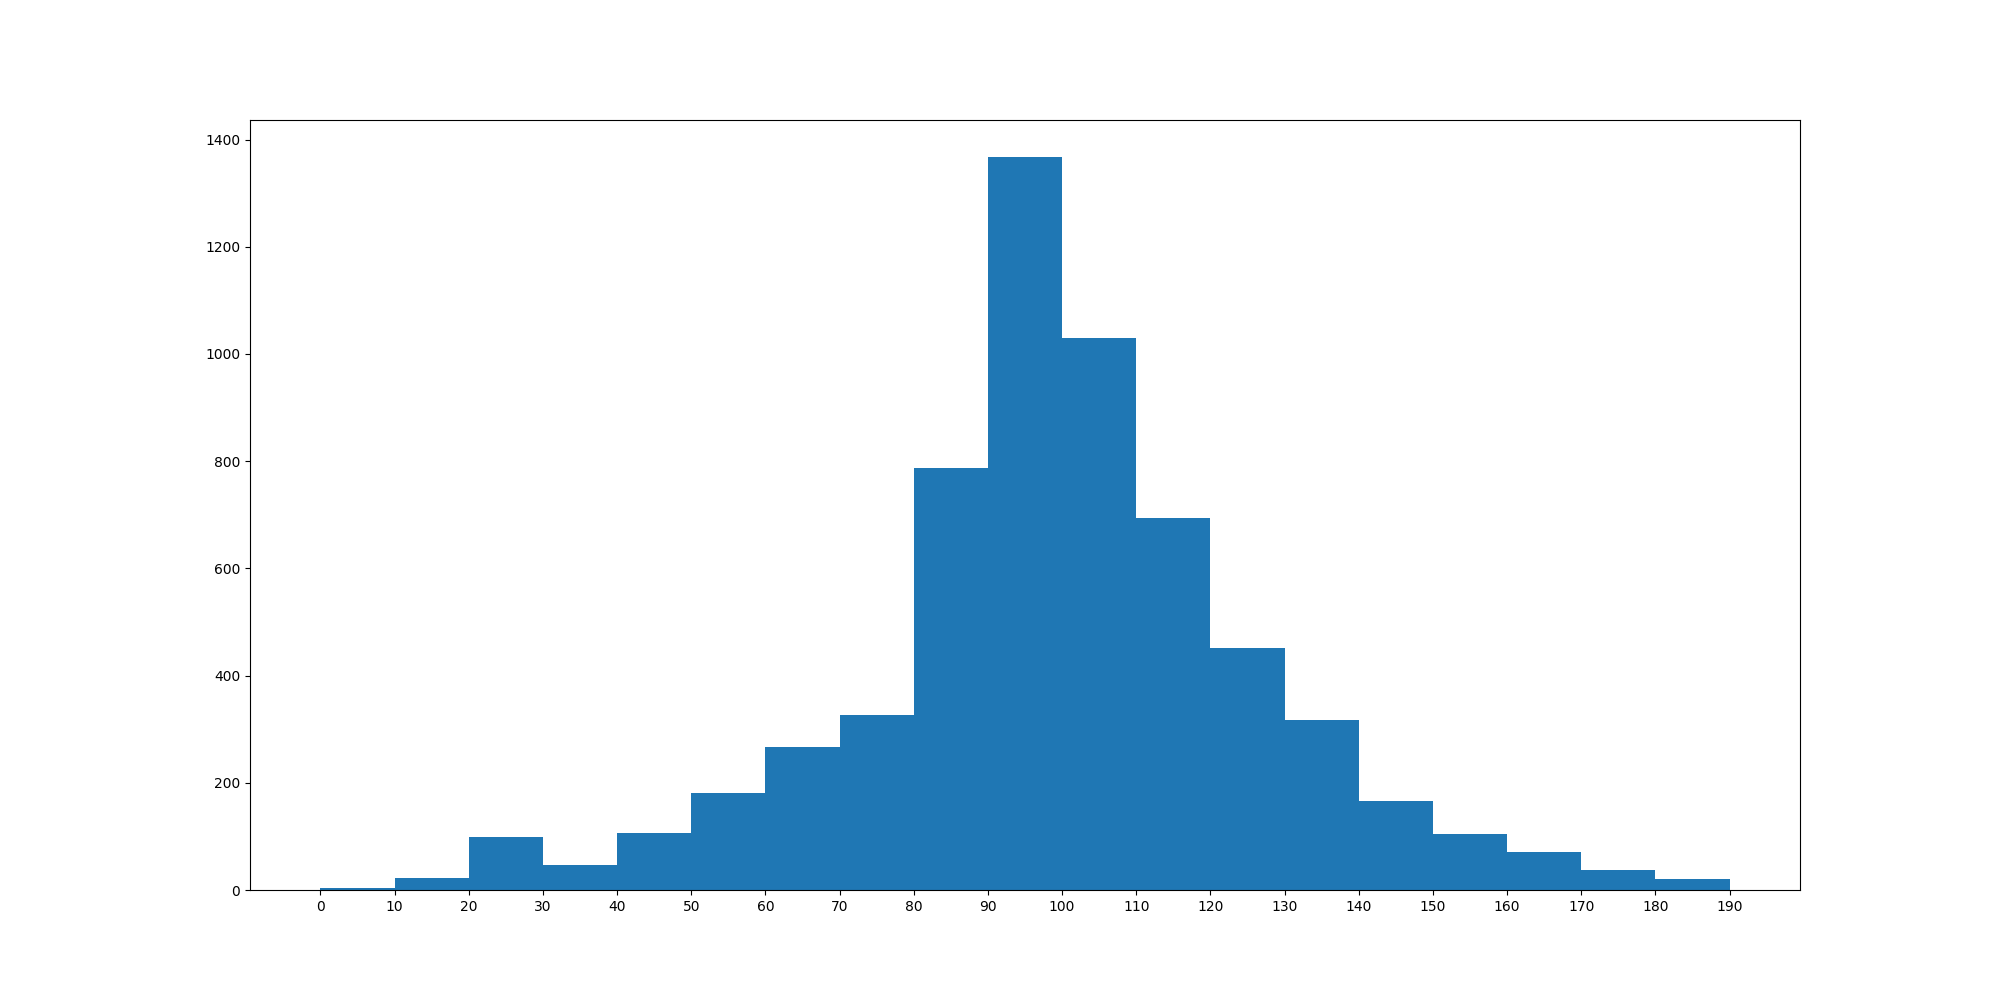
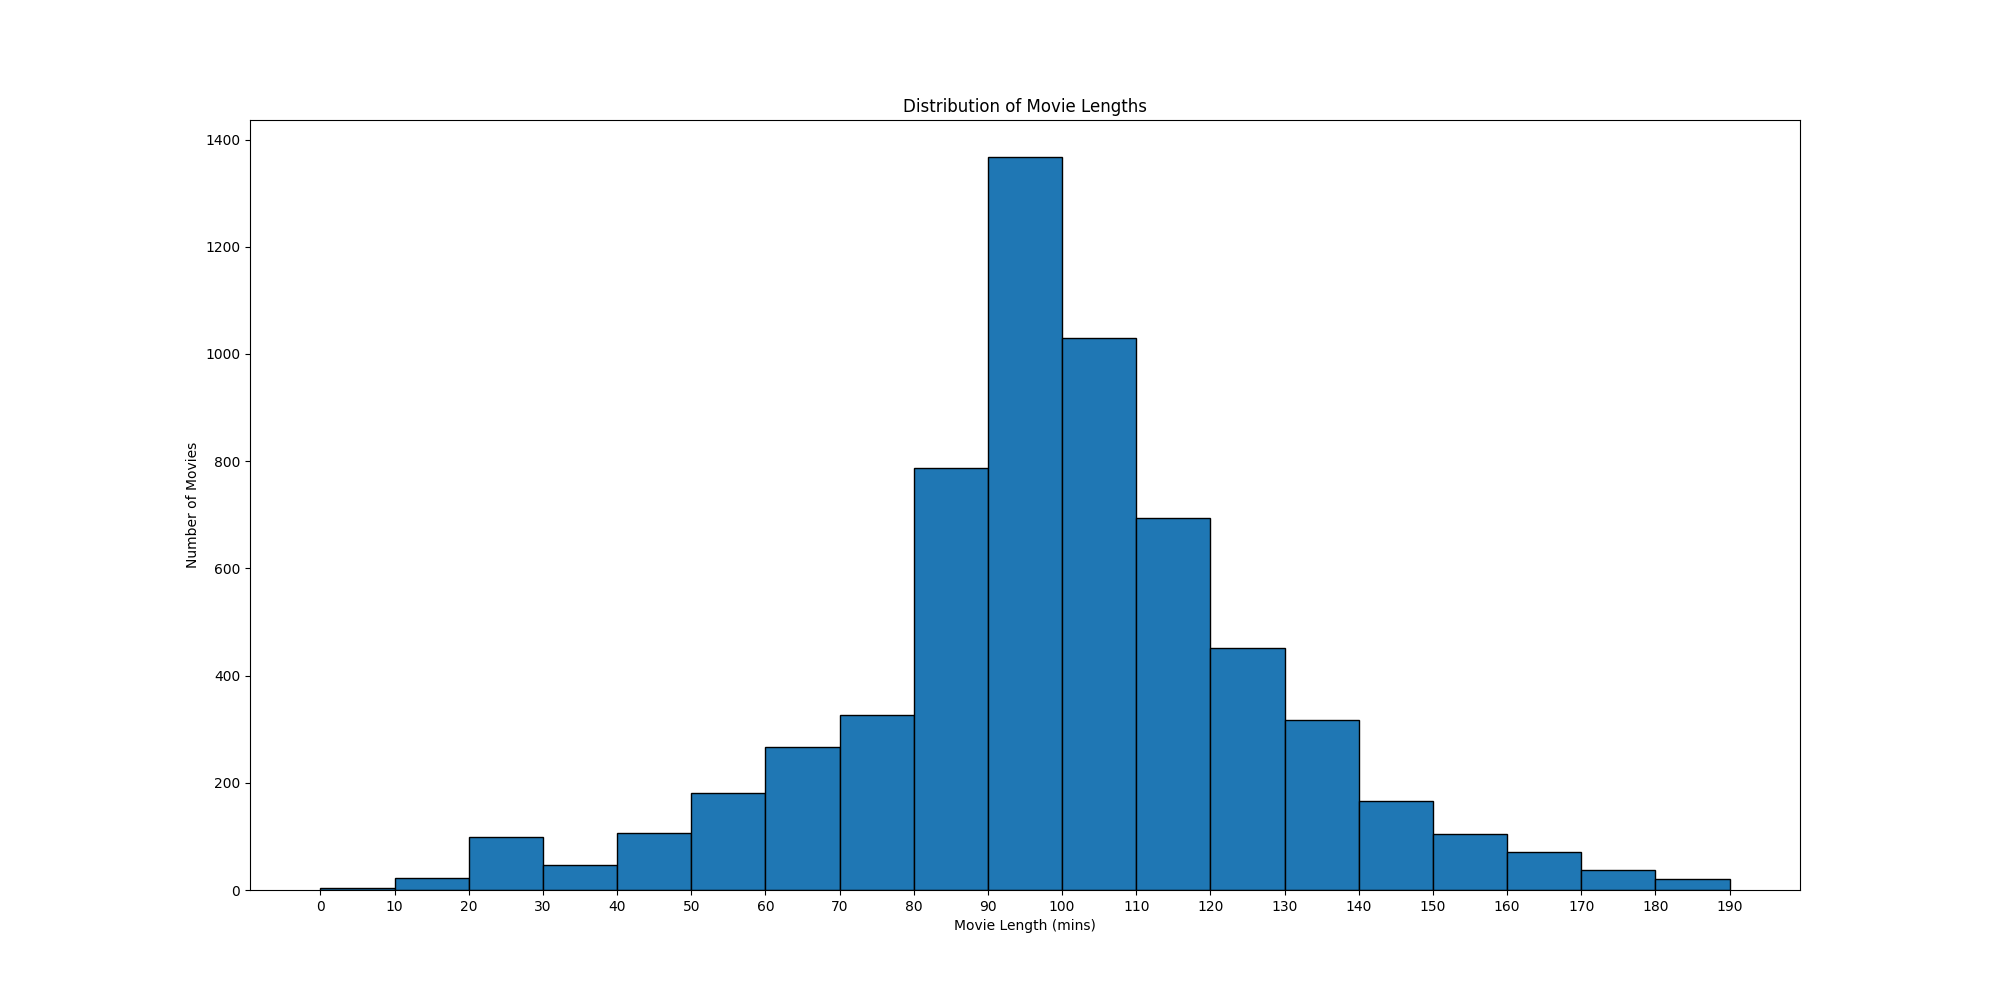
Initial commit with tidy data and a couple of graphs to test data visualization

diff --git a/netflix.py b/netflix.py
@@ -1,5 +1,6 @@
 import pandas as pd
 from matplotlib import pyplot as plt
+import numpy as np
 
 #import the csv into a dataframe
 data = pd.read_csv('netflix_titles.csv', encoding = 'utf-8')
@@ -72,13 +73,29 @@ show_durations.duration = show_durations.duration.map(lambda x: x[0])
 #convert strings to int values
 movie_durations.duration = movie_durations.duration.astype('int')
 show_durations.duration = show_durations.duration.astype('int')
-#graph histograms of movie lengths and tv show seasons
+#graph charts of movie lengths and tv show seasons
 f = plt.figure()
 f.set_figwidth(20)
 f.set_figheight(10)
-plt.hist(movie_durations.duration, bins = [*range(0, 200, 10)])
+plt.hist(movie_durations.duration, bins = [*range(0, 200, 10)], edgecolor = 'black')
 plt.xticks([*range(0, 200, 10)])
+plt.title('Distribution of Movie Lengths')
+plt.xlabel('Movie Length (mins)')
+plt.ylabel('Number of Movies')
 plt.savefig('movie_lengths.png')
+plt.clf()
+
+#need value counts for # of seasons
+labels, counts = np.unique(show_durations.duration, return_counts=True)
+f = plt.figure()
+f.set_figwidth(20)
+f.set_figheight(10)
+plt.bar(labels, counts, edgecolor = 'black')
+plt.xticks(labels)
+plt.title('Distribution of # of Seasons for TV Shows')
+plt.xlabel('Number of Seasons')
+plt.ylabel('Number of Shows')
+plt.savefig('show_lengths.png')
 plt.clf()
 
 print(show_durations.head(25))
